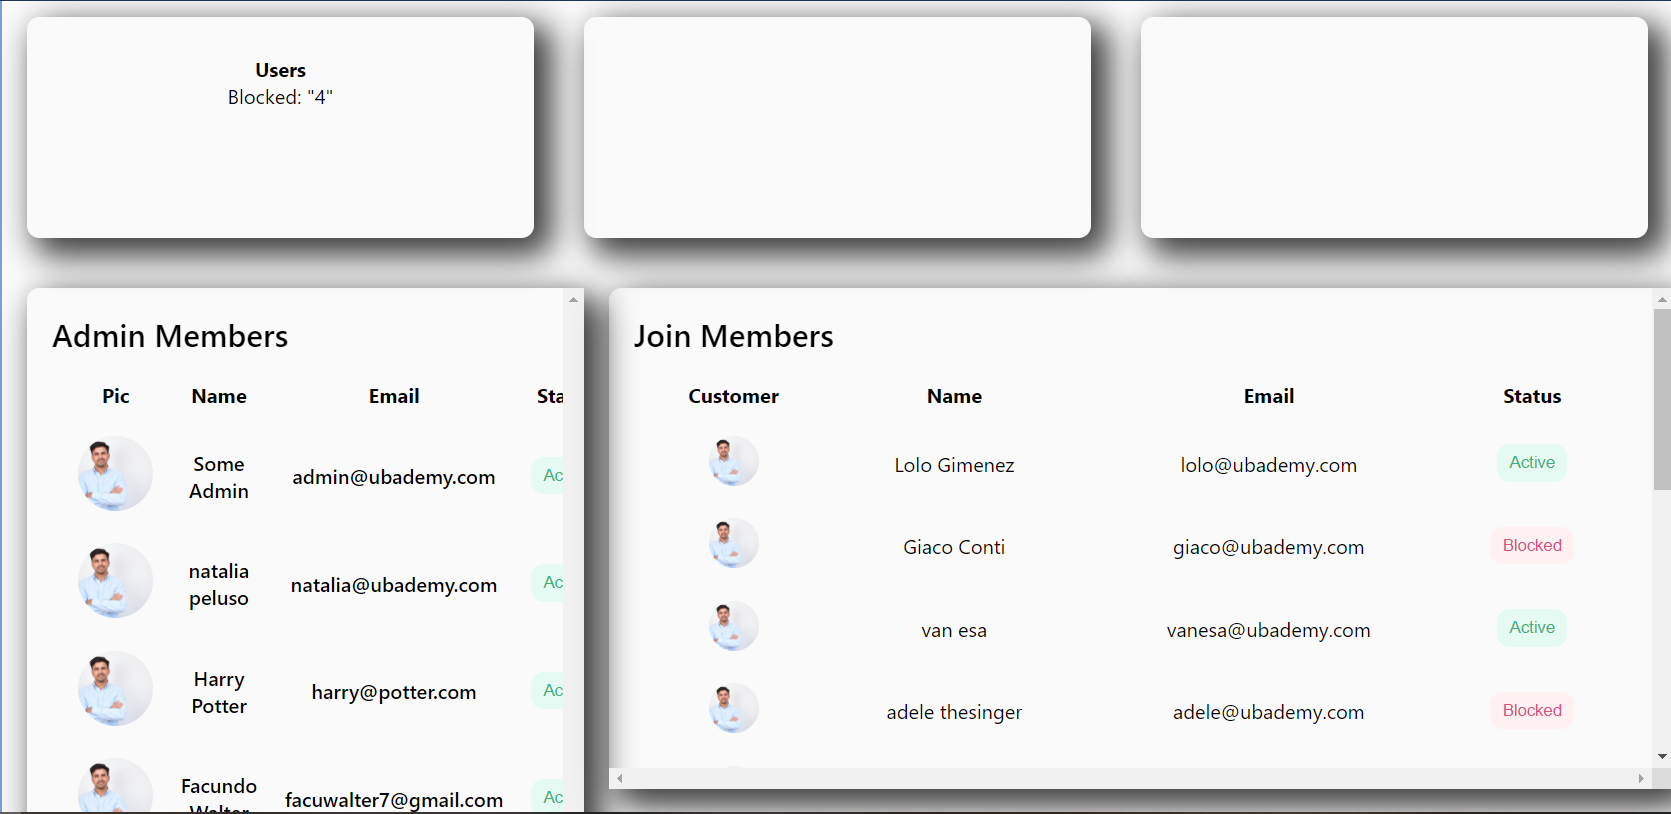
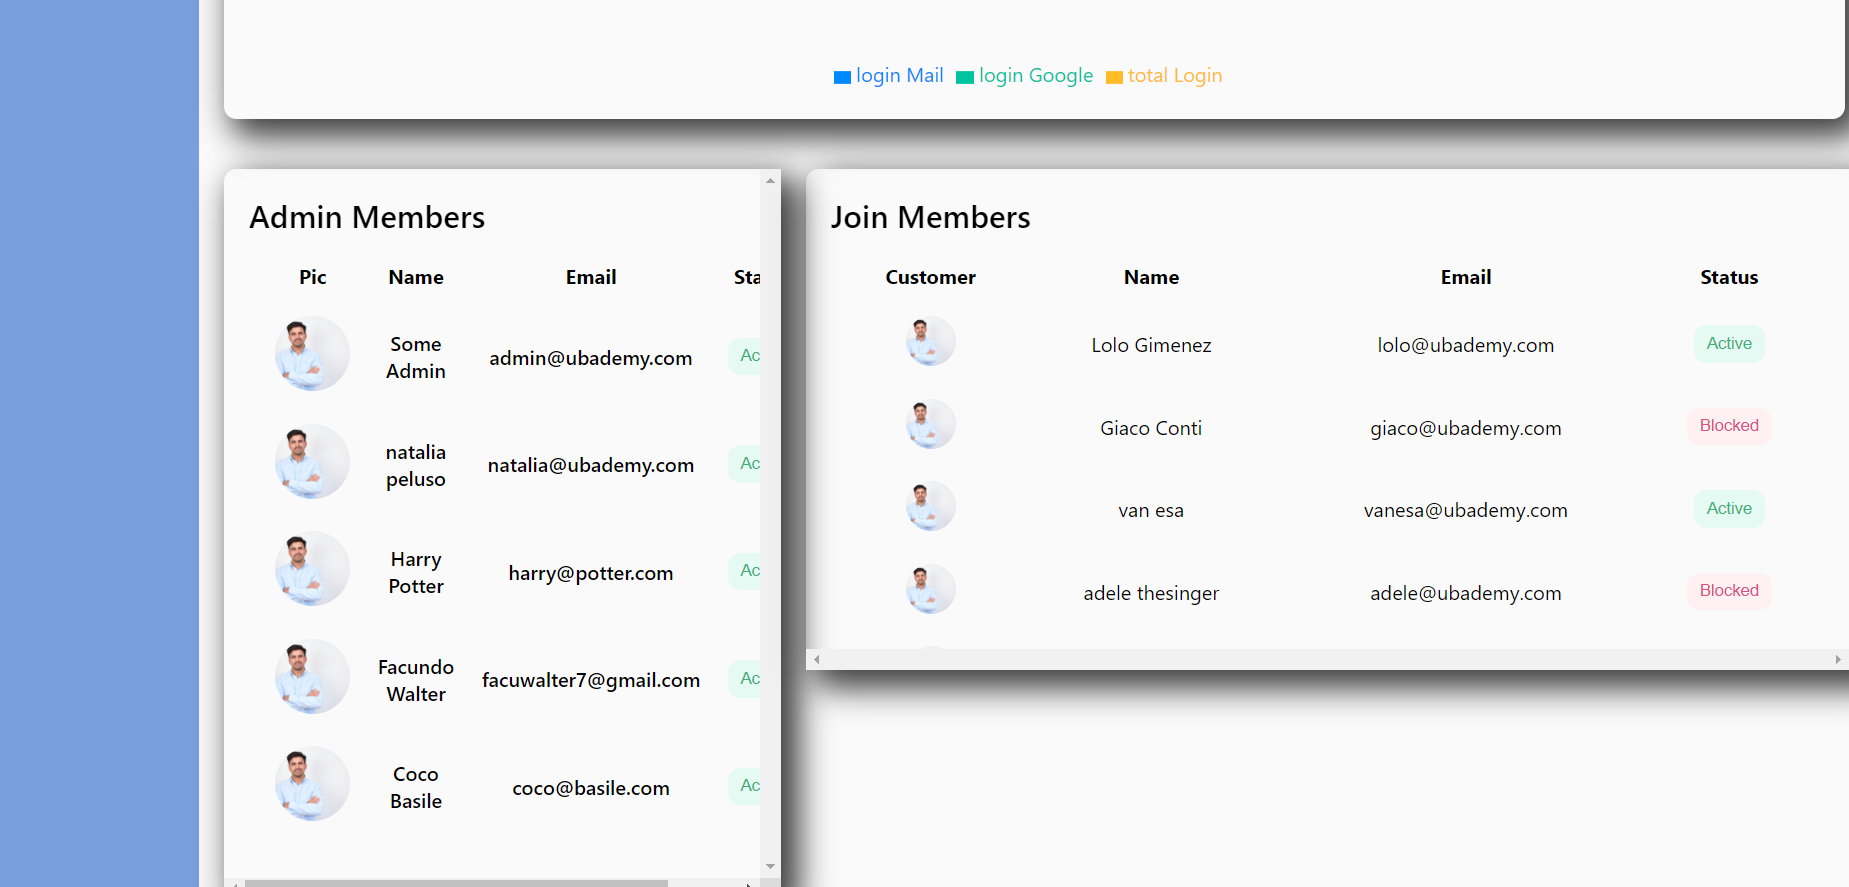
arreglos visuales

diff --git a/src/pages/home/home.js b/src/pages/home/home.js
@@ -1,6 +1,6 @@
 import React, { useState, useEffect } from "react";
 import './home.css';
-import { Feature, WidgetSm, WidgetLg } from '../../components';
+import { WidgetSm, WidgetLg, Pie_Chart } from '../../components';
 import { fetchUsersMetrics } from '../../services/index';
 
 function Home() {
@@ -10,17 +10,40 @@ function Home() {
   useEffect(() => {
     fetchUsersMetrics().then((metricsData) => {
         setUsersMetrics(metricsData);
+        console.log(usersMetrics);
     });
   },[]);
 
+  const data = [
+    {
+      name: 'blocked',
+      value: 3,
+    },
+    {
+      name: 'Total Users',
+      value: 20,
+    }
+  ]
+
+  const data2 = [
+    {
+      name: 'login Mail',
+      value: 13,
+    },
+    {
+      name: 'login Google',
+      value: 7,
+    },
+    {
+      name: 'total Login',
+      value: 20,
+    }
+  ]
+
   return (
     <div className='home'>
-        <div className='home-features'>
-            <Feature title={'Users'} analytics={usersMetrics}/>
-            <Feature />
-            <Feature />
-        </div>
-        {/* <Line_Chart data={userData} title='User Analytics' grid dataKey='Active User'/> */}
+        <Pie_Chart data={data} title='Blocked Users' dataKey='value'/>
+        <Pie_Chart data={data2} title='Login Analytics' dataKey='value'/>
         <div className='home-widgets'>
           <WidgetSm/>
           <WidgetLg />

diff --git a/src/pages/userList/userList.css b/src/pages/userList/userList.css
@@ -6,8 +6,8 @@
 }
 
 .users-container {
-    width: 80%;
-    height: 90%;
+    width: 90%;
+    height: 95%;
     display: flex;
     margin: 0 auto;
 }

diff --git a/index.md b/index.md
@@ -18,7 +18,7 @@
 
 ## <a name="SignIn">Sign In</a>
 
-This is the first page that you will see if this is your first time using the app. In case you don't have an account it means that you are not an administrator so you do not have permissions to enter this web.
+This is the first page that you will see if this is your first time using the Backoffice Web. In case you don't have an account it means that you are not an administrator so you do not have permissions to enter this web.
 
 If you do have an account you can Sign In by putting your email and password.
 
@@ -53,7 +53,15 @@ This is the home screen. From here you can see some User Metrics.
 3. Users: Public users and status
 
 <p align="center">
-<img src="src/images/homeScreen.PNG" style="width: 100%"/>
+<img src="src/images/pieChart1.png" style="width: 100%"/>
+</p>
+
+<p align="center">
+<img src="src/images/pieChart2.png" style="width: 100%"/>
+</p>
+
+<p align="center">
+<img src="src/images/homeScreen.png" style="width: 100%"/>
 </p>
 
 ## <a name="UserScreen">Users Screen</a>
